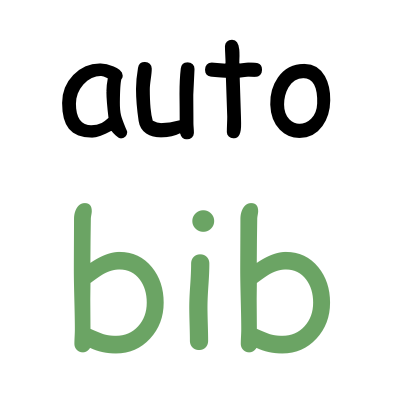
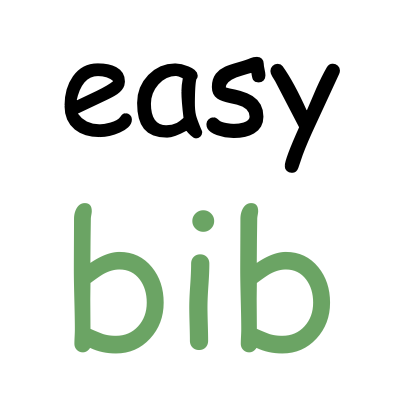
rename project

Changed region(s): [[0.15, 0.09, 0.87, 0.45], [0.36, 0.33, 0.39, 0.36]]

diff --git a/src/extension.ts b/src/extension.ts
@@ -3,8 +3,8 @@ import clip from './clip';
 import searchBox from './search';
 
 export function activate(context: vscode.ExtensionContext) {
-    let clipCommand = vscode.commands.registerCommand('autobib.clip', () => clip());
-    let searchCommand = vscode.commands.registerCommand("autobib.search", () => searchBox());
+    let clipCommand = vscode.commands.registerCommand('easybib.clip', () => clip());
+    let searchCommand = vscode.commands.registerCommand("easybib.search", () => searchBox());
 
     context.subscriptions.push(clipCommand);
     context.subscriptions.push(searchCommand);
